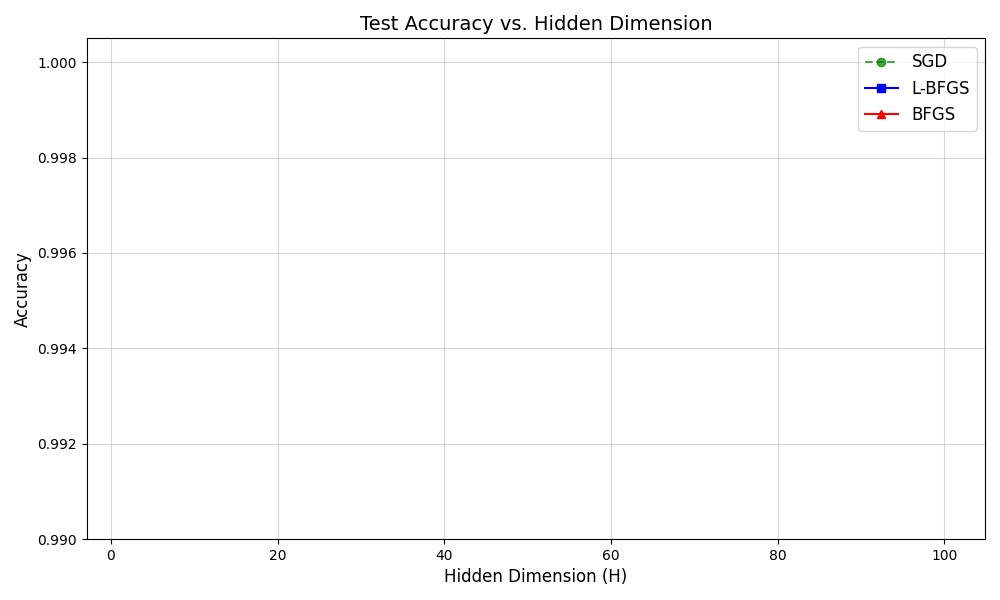
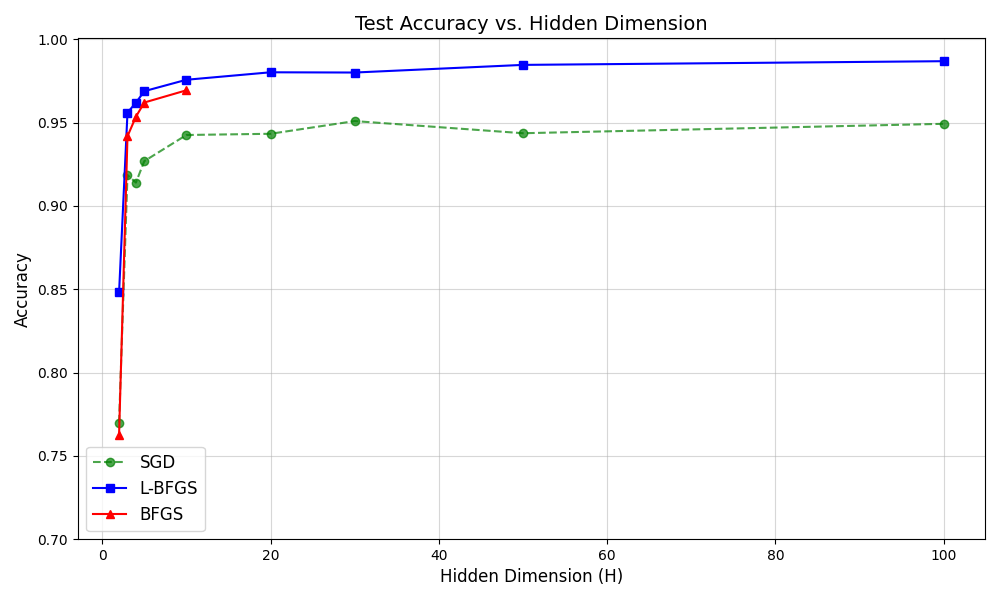
Quick commit to main to change accuracy graph y axis

diff --git a/src/phase6/visualize_multiclass_results.py b/src/phase6/visualize_multiclass_results.py
@@ -72,7 +72,7 @@ def plot_results():
     plt.title('Test Accuracy vs. Hidden Dimension', fontsize=14)
     plt.xlabel('Hidden Dimension (H)', fontsize=12)
     plt.ylabel('Accuracy', fontsize=12)
-    plt.ylim(0.99, 1.0005) # Zoom in on the top 1% since results are so good
+    plt.ylim(0.7, 1.0005) # Zoom in on the top 1% since results are so good
     plt.grid(True, alpha=0.5)
     plt.legend(fontsize=12)
     plt.tight_layout()
